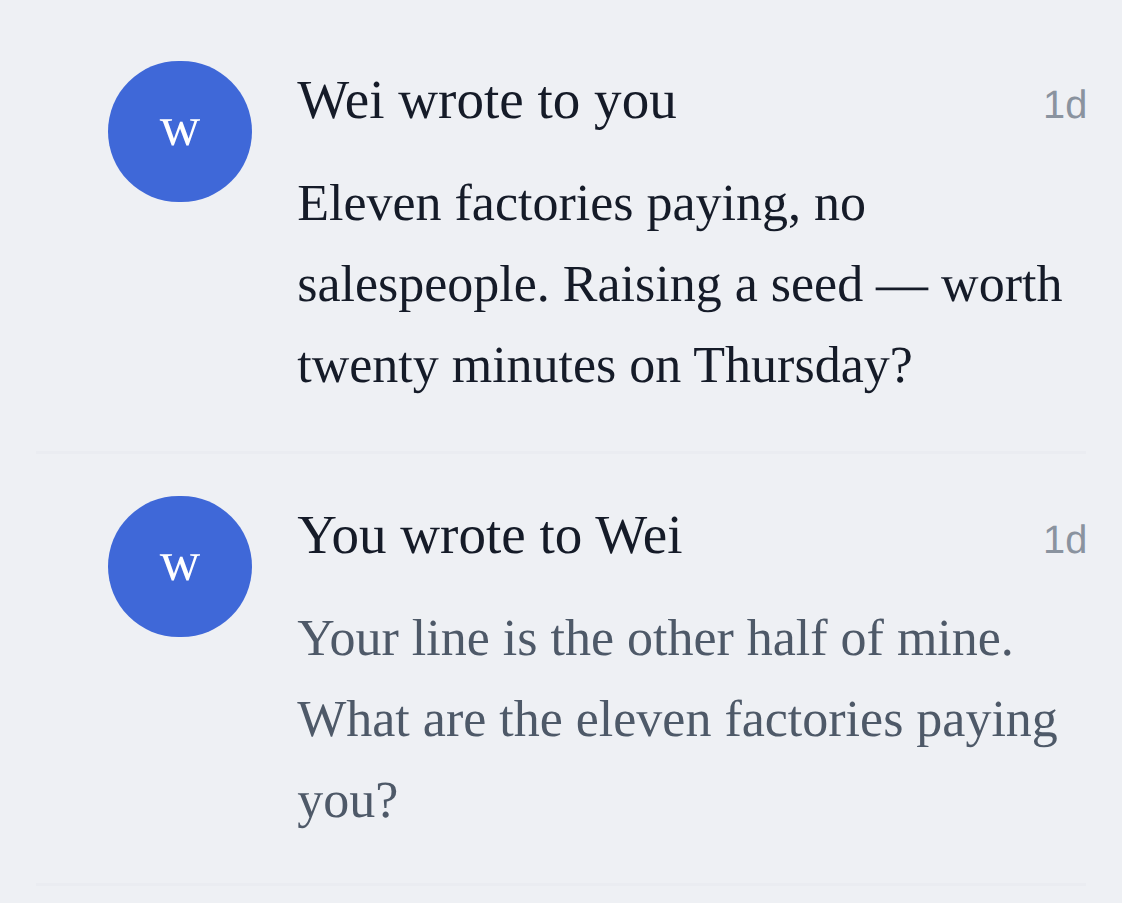
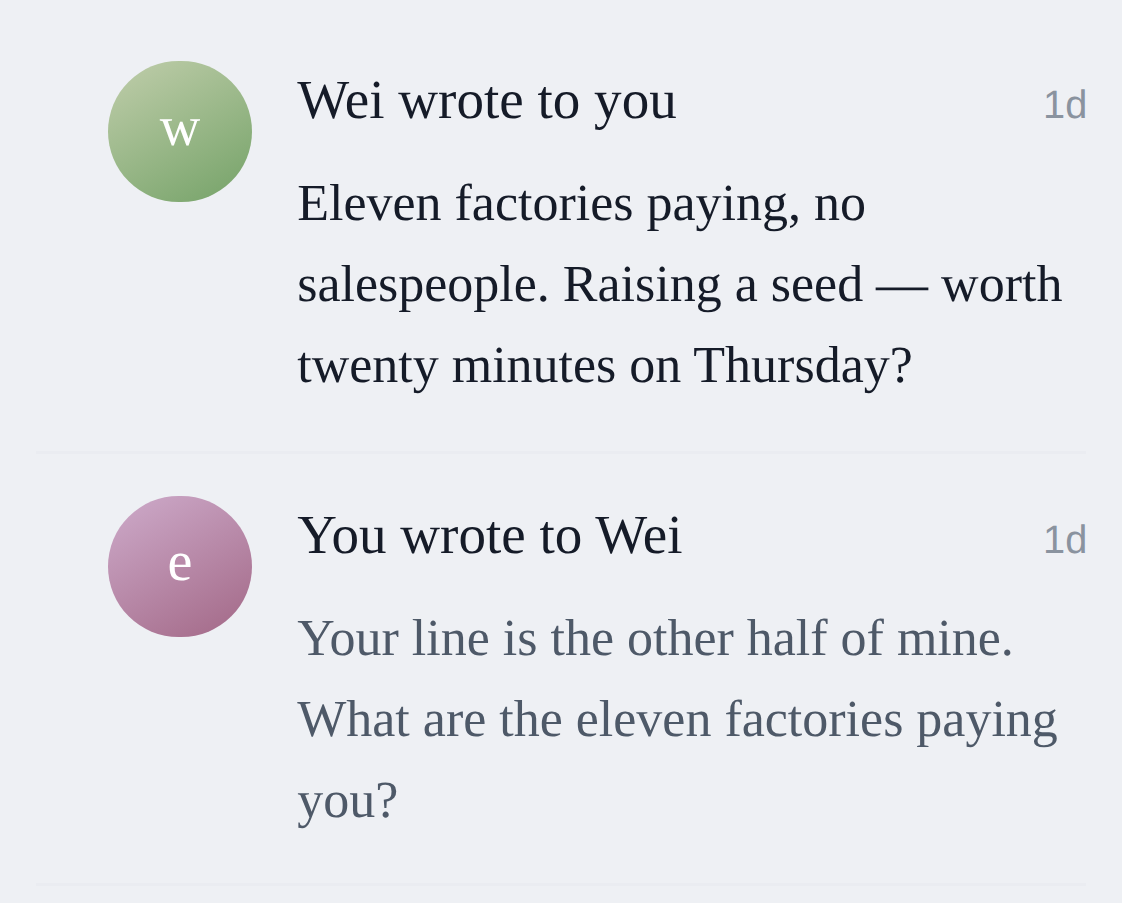
Messages: your own face on your own lines, and a colour per person
Every row in a thread wore the other person's avatar, including the ones
you sent — so a conversation drew the same initial twice down the page and
read as one person talking to themselves, while the line beside it said
"You wrote to Wei". A picture that contradicts the sentence next to it
makes a screen feel broken without anybody being able to say why.
/api/notes now sends the reader's own name and photo once, and a line you
wrote wears your face.

The letter avatars were also all the one accent blue, so two people with no
photo were two identical blue circles told apart by a single letter. They
now take a colour from their own name, using the same routine as the card
in room.html — so a person is the same colour here as they are there,
today and tomorrow.

Landing frame 3 reshot against it.

Claude-Session: https://claude.ai/code/session_011uP6cYAgEBge7SwTfEThRz

Changed region(s): [[0.0936, 0.5271, 0.2496, 0.7132], [0.0936, 0.062, 0.2496, 0.2481]]

diff --git a/board/public/notes.html b/board/public/notes.html
@@ -208,18 +208,31 @@ const el = (t, c, x) => { const n = document.createElement(t); if (c) n.classNam
 const fill = (n) => { while (n.firstChild) n.removeChild(n.firstChild); };
 const initial = (name) => (String(name || "?").trim()[0] || "?").toLowerCase();
 
+/* A COLOUR PER PERSON, FROM THEIR OWN NAME — the same routine, and so the
+   same colour, as the card in room.html. Every letter avatar in a thread was
+   the one accent blue, so two people who had not uploaded a photo were two
+   identical blue circles and the only thing telling them apart was a letter.
+   Not random: it has to be the same tomorrow, and the same to them as it is
+   to the person reading. */
+function wash(name) {
+  let h = 0;
+  for (const ch of String(name || "?")) h = (h * 31 + ch.codePointAt(0)) % 360;
+  return "linear-gradient(150deg,hsl(" + h + " 26% 74%),hsl(" + ((h + 24) % 360) + " 24% 52%))";
+}
+
 let device = "";
 try { device = localStorage.getItem("board:device") || ""; } catch { /* private window */ }
 
-let NOTES = [], UNREAD = 0;
+let NOTES = [], UNREAD = 0, YOU = { handle: "", photo: "" };
 
 async function load() {
   try {
     const d = await fetch("/api/notes", { cache: "no-store",
       headers: device ? { "x-board-device": device } : {} }).then((r) => r.json());
     NOTES = d.notes || [];
+    YOU = d.you || { handle: "", photo: "" };
     UNREAD = d.unread || 0;
-  } catch { NOTES = []; UNREAD = 0; }
+  } catch { NOTES = []; UNREAD = 0; YOU = { handle: "", photo: "" }; }
   paint();
 
   /* Marked read after they are on the screen, not before. Doing it in the
@@ -256,18 +269,25 @@ function row(n) {
   const box = el("div", "note" + (n.mine ? " mine" : ""));
   box.append(el("div", "dot" + (n.mine || n.seen ? " spent" : "")));
 
-  // Their face, and it opens them. A list of messages from names you cannot
-  // put a face to is the same problem the feed had.
-  if (n.handle) {
+  /* WHOEVER WROTE THE LINE, and it opens them. A list of messages from names
+     you cannot put a face to is the same problem the feed had.
+     On the lines you sent that is YOU. It was the other person on every row,
+     which drew the same initial twice down a thread and read as one person
+     talking to themselves — while the line beside it said "You wrote to Wei".
+     A picture that contradicts the sentence next to it makes a screen feel
+     broken without anybody being able to say why. */
+  const face = n.mine ? YOU : n;
+  if (face.handle) {
     const av = Object.assign(document.createElement("a"), {
       className: "av small",
-      href: "/p/" + encodeURIComponent(n.handle.toLowerCase()),
-      textContent: initial(n.handle),
+      href: "/p/" + encodeURIComponent(face.handle.toLowerCase()),
+      textContent: initial(face.handle),
     });
-    av.setAttribute("aria-label", n.handle);
-    if (n.photo) {
+    av.setAttribute("aria-label", face.handle);
+    av.style.background = wash(face.handle);
+    if (face.photo) {
       const img = Object.assign(document.createElement("img"),
-        { src: "/api/public-media?id=" + encodeURIComponent(n.photo), alt: "", loading: "lazy" });
+        { src: "/api/public-media?id=" + encodeURIComponent(face.photo), alt: "", loading: "lazy" });
       img.addEventListener("load", () => { av.textContent = ""; av.append(img); });
     }
     box.append(av);

diff --git a/board/server.js b/board/server.js
@@ -4158,7 +4158,19 @@ app.get("/api/notes", notesOff, async (req, res) => {
     };
   });
 
-  res.json({ notes, unread: notes.filter((n) => !n.mine && !n.seen).length });
+  /* THE READER'S OWN FACE, for the lines the reader wrote.
+     Every row carried the other person's face, including the ones you sent —
+     so a thread read as one person talking to themselves, the same initial
+     twice down the page. The name on the line was right ("You wrote to Wei")
+     and the picture beside it contradicted it, which is the kind of small
+     wrongness that makes a screen feel broken without anybody being able to
+     say why. Sent once rather than per row: it is the same person on every
+     one of them. */
+  res.json({
+    notes,
+    you: name(me),
+    unread: notes.filter((n) => !n.mine && !n.seen).length,
+  });
 });
 
 /* LEAVING A CONVERSATION.
